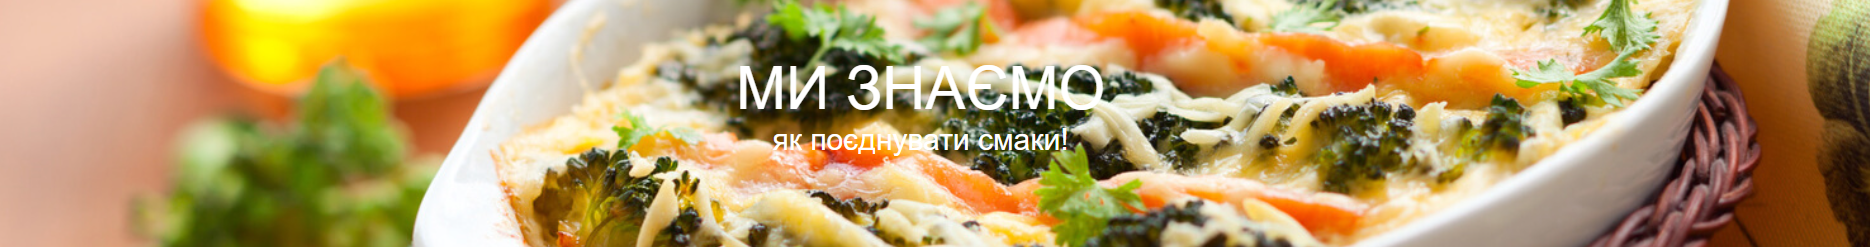
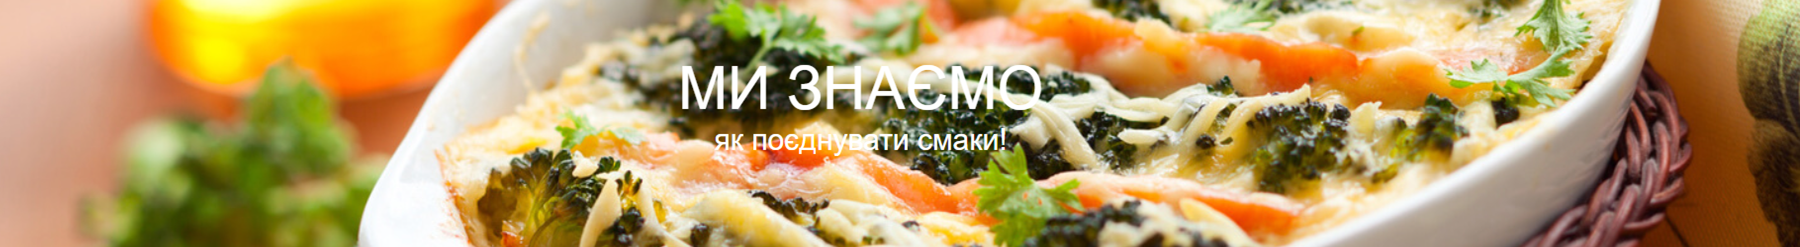
11

diff --git a/index.html b/index.html
@@ -80,11 +80,11 @@
               <p class="premier-text">
                 
               </p>
-              <img class="premier-imgleft" src="images/img-left.jpg" alt="" />
+              <img class="premier-imgleft" src="images/img-left2.png" alt="" />
               <button class="premier-btn">MORE</button>
             </div>
             <div class="premier-col">
-              <img class="premier-imgright" src="images/img-right.png" alt="" />
+              <img class="premier-imgright" src="images/fried_chicken_transparent.webp" alt="" />
             </div>
           </section>
 

diff --git a/css/style.css b/css/style.css
@@ -173,6 +173,8 @@ a{
 
 .premier-imgleft{
   margin-bottom: 25px;
+  height: 400px;
+  width: 570px;
 }
 
 .premier-btn{
@@ -198,6 +200,7 @@ a{
 
 .premier-imgright{
   margin-bottom: 20px;
+  height: 664px;
 }
 
 .video{
